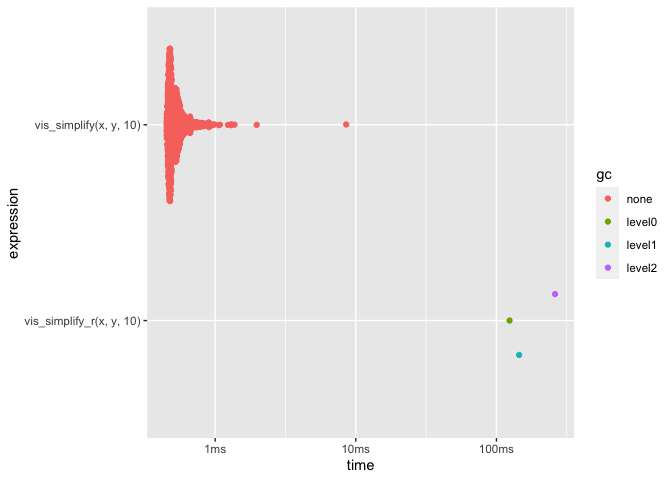
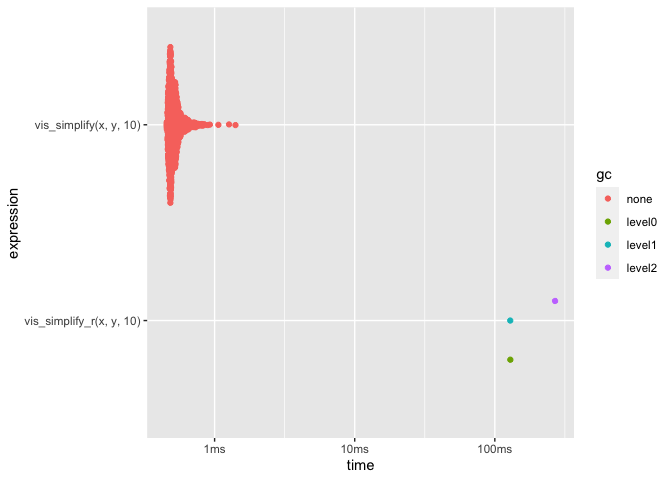
add github ci

diff --git a/README.md b/README.md
@@ -6,6 +6,7 @@
 <!-- badges: start -->
 
 ![](https://img.shields.io/badge/cool-useless-green.svg)
+[![R-CMD-check](https://github.com/coolbutuseless/visvalingam/workflows/R-CMD-check/badge.svg)](https://github.com/coolbutuseless/visvalingam/actions)
 <!-- badges: end -->
 
 `{visvilingam}` implements Visvilngam’s Line Simplification Algorithm,
@@ -164,8 +165,8 @@ res <- bench::mark(
 
 | expression               |   min | median |     itr/sec | mem_alloc |
 |:-------------------------|------:|-------:|------------:|----------:|
-| vis_simplify(x, y, 10)   | 452µs |  507µs | 1821.325793 |        0B |
-| vis_simplify_r(x, y, 10) | 124ms |  145ms |    5.663136 |    96.8MB |
+| vis_simplify(x, y, 10)   | 454µs |  502µs | 1903.706532 |        0B |
+| vis_simplify_r(x, y, 10) | 129ms |  129ms |    5.694004 |    96.8MB |
 
 <img src="man/figures/README-bench-1.png" width="100%" />
 
